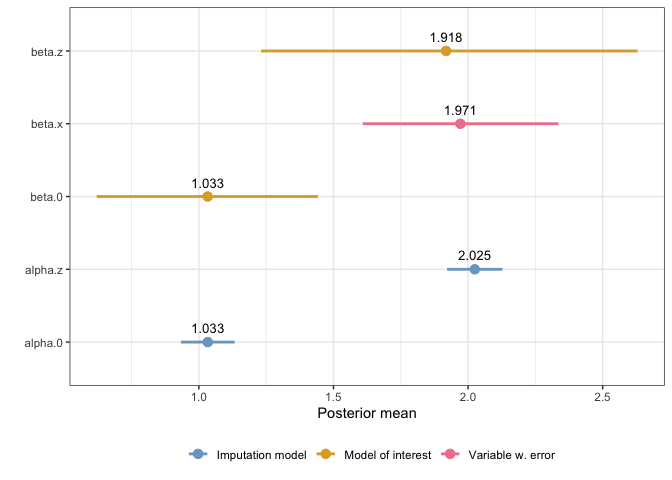
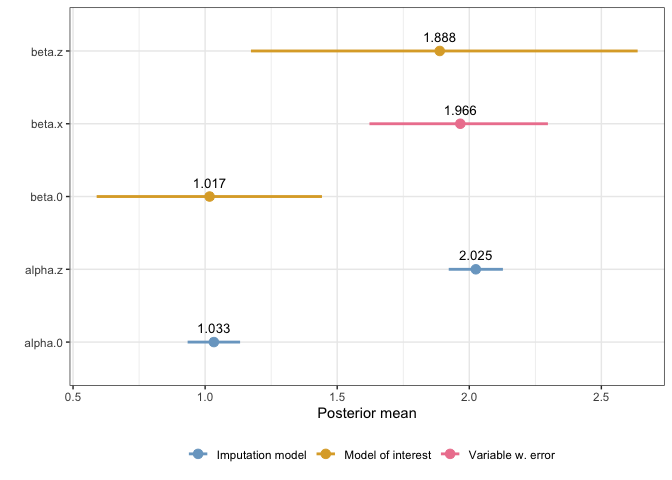
random effects and missingness only example

diff --git a/README.md b/README.md
@@ -60,11 +60,12 @@ would be of interest for your research!
 
 Examples of how to use the package can be found in the vignettes.
 
-| Vignette name                                                                                                                                 | Likelihood for MOI | Error type                  | Other features                                |
-|:----------------------------------------------------------------------------------------------------------------------------------------------|:-------------------|:----------------------------|:----------------------------------------------|
-| [Influence of systolic blood pressure on coronary heart disease](https://emmaskarstein.github.io/inlami/articles/Framingham_heart_study.html) | Binomial           | Classical                   | Repeated measurements of error prone variable |
-| [Survival data with repeated systolic blood pressure measurements](https://emmaskarstein.github.io/inlami/articles/nhanes_survival.html)      | Weibull survival   | Classical, missing          | Repeated measurements of error prone variable |
-| [Simulated examples (multiple examples)](https://emmaskarstein.github.io/inlami/articles/simulated_examples.html)                             | Gaussian, Binomial | Berkson, classical, missing |                                               |
+| Vignette name                                                                                                                                 | Likelihood for MOI | Error type                  | Other features                                                                   |
+|:----------------------------------------------------------------------------------------------------------------------------------------------|:-------------------|:----------------------------|:---------------------------------------------------------------------------------|
+| [Influence of systolic blood pressure on coronary heart disease](https://emmaskarstein.github.io/inlami/articles/Framingham_heart_study.html) | Binomial           | Classical                   | Repeated measurements of error prone variable                                    |
+| [Survival data with repeated systolic blood pressure measurements](https://emmaskarstein.github.io/inlami/articles/nhanes_survival.html)      | Weibull survival   | Classical, missing          | Repeated measurements of error prone variable                                    |
+| [Simulated examples (multiple examples)](https://emmaskarstein.github.io/inlami/articles/simulated_examples.html)                             | Gaussian, Binomial | Berkson, classical, missing |                                                                                  |
+| [Visualize model structure](https://emmaskarstein.github.io/inlami/articles/Visualize_model_structure.html)                                   |                    |                             | A deep dive into how the data is structured in order to correctly fit the model. |
 
 ## Quick guide: How can I use this package?
 
@@ -154,30 +155,30 @@ summary(simple_model)
 #> [1] "berkson"   "classical"
 #> 
 #> Fixed effects for model of interest: 
-#>            mean        sd 0.025quant 0.5quant 0.975quant mode          kld
-#> beta.0 1.032688 0.2147901  0.6202465 1.033195   1.442295   NA 1.066851e-07
-#> beta.z 1.918256 0.3807597  1.2307767 1.914602   2.629893   NA 6.438468e-05
+#>           mean        sd 0.025quant 0.5quant 0.975quant mode          kld
+#> beta.0 1.01689 0.2219628  0.5894168 1.021245   1.442325   NA 1.358364e-06
+#> beta.z 1.88815 0.3975073  1.1735210 1.905647   2.637368   NA 1.032643e-05
 #> 
 #> Coefficient for error prone variable: 
 #>            mean        sd 0.025quant 0.5quant 0.975quant mode
-#> beta.x 1.971446 0.1846909   1.608791 1.971138   2.335602   NA
+#> beta.x 1.966046 0.1712093   1.622101 1.968371   2.297676   NA
 #> 
 #> Fixed effects for imputation model: 
 #>             mean         sd 0.025quant 0.5quant 0.975quant mode          kld
-#> alpha.0 1.033042 0.05072850  0.9335129 1.033050   1.132531   NA 2.092415e-12
-#> alpha.z 2.024792 0.05239427  1.9220592 2.024776   2.127613   NA 8.897442e-12
+#> alpha.0 1.033081 0.05061214  0.9337674 1.033092   1.132334   NA 4.442473e-12
+#> alpha.z 2.024705 0.05227708  1.9222232 2.024681   2.127321   NA 2.023098e-11
 #> 
 #> Model hyperparameters (apart from beta.x): 
-#>                                                 mean         sd 0.025quant
-#> Precision for the Gaussian observations    1.1136386 0.33147478  0.5697404
-#> Precision for the Gaussian observations[2] 1.1159830 0.31853335  0.6211750
-#> Precision for the Gaussian observations[3] 0.9175456 0.09845129  0.7442560
-#> Precision for the Gaussian observations[4] 0.9790551 0.11577565  0.7715105
+#>                                                 mean        sd 0.025quant
+#> Precision for the Gaussian observations    1.1439551 0.3638825  0.5898076
+#> Precision for the Gaussian observations[2] 1.1058827 0.2934160  0.6294660
+#> Precision for the Gaussian observations[3] 0.9288501 0.1004393  0.7488019
+#> Precision for the Gaussian observations[4] 0.9729314 0.1179177  0.7590142
 #>                                             0.5quant 0.975quant mode
-#> Precision for the Gaussian observations    1.0789975   1.861736   NA
-#> Precision for the Gaussian observations[2] 1.0721826   1.863480   NA
-#> Precision for the Gaussian observations[3] 0.9103045   1.131228   NA
-#> Precision for the Gaussian observations[4] 0.9720551   1.226787   NA
+#> Precision for the Gaussian observations    1.0906528   2.008818   NA
+#> Precision for the Gaussian observations[2] 1.0721691   1.779555   NA
+#> Precision for the Gaussian observations[3] 0.9226115   1.144381   NA
+#> Precision for the Gaussian observations[4] 0.9667093   1.223440   NA
 ```
 
 And we can use the default plot function to see a plot of the fixed
